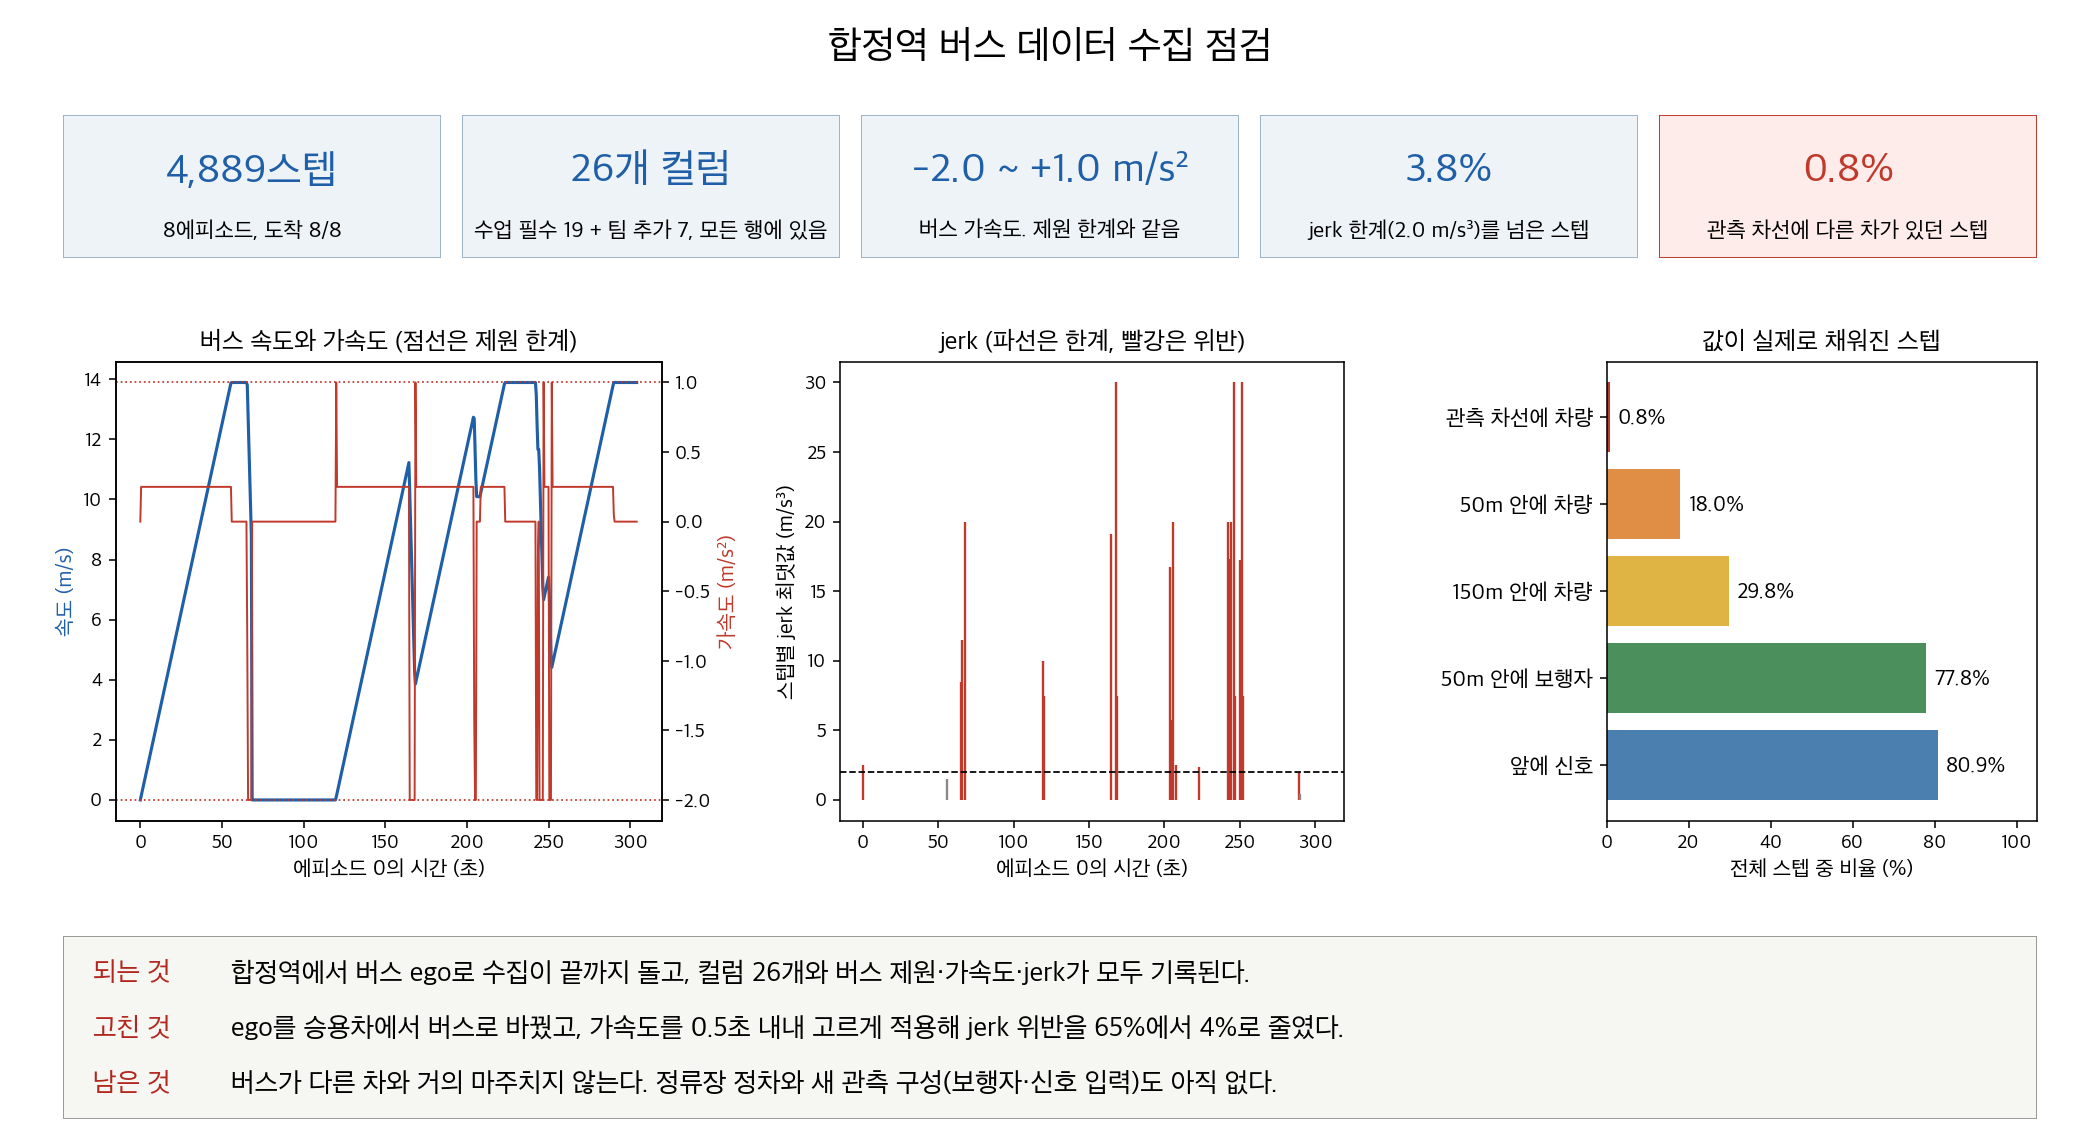
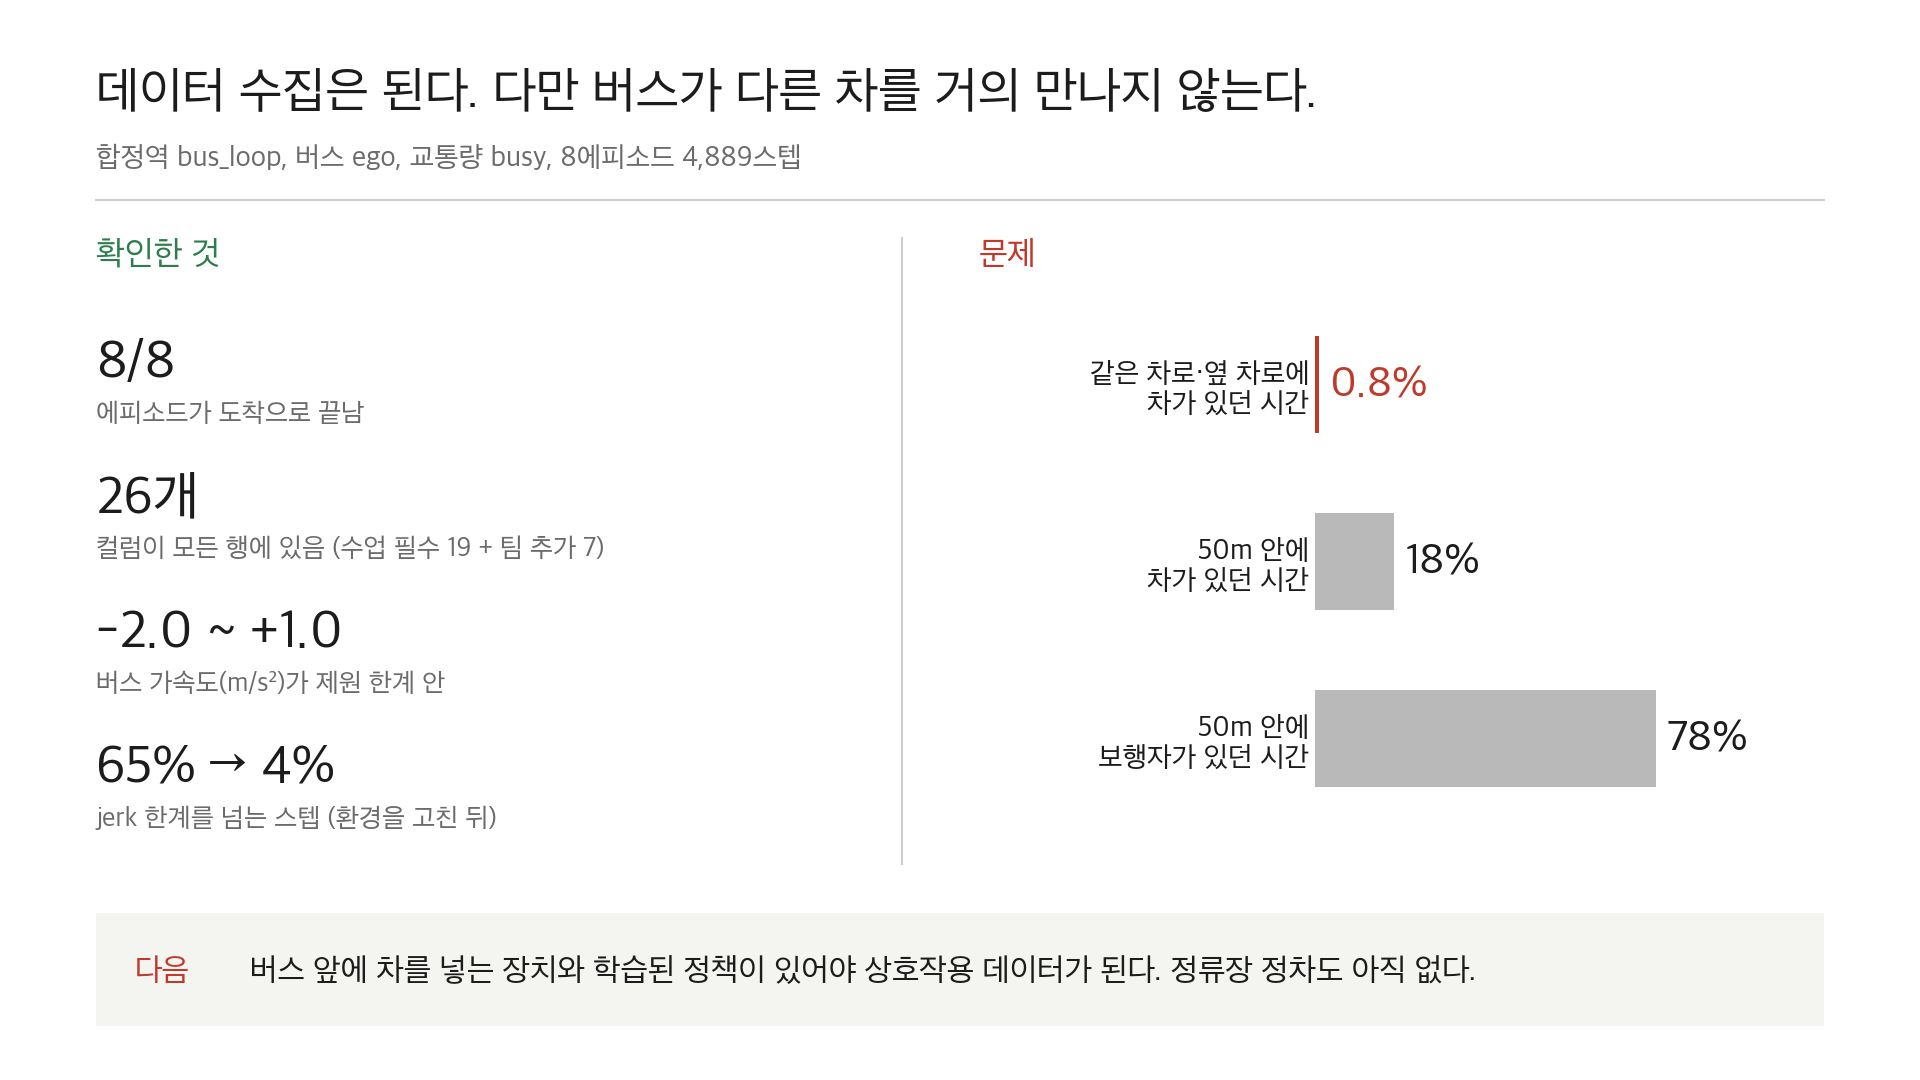
docs(data): 수집 점검 이미지를 슬라이드 한 장 구성으로 다시 그리기

diff --git a/docs/data_summary/summary_image.py b/docs/data_summary/summary_image.py
@@ -1,4 +1,4 @@
-"""데이터 수집 점검을 이미지 한 장으로 만든다. 수집한 JSONL에서 바로 그린다.
+"""데이터 수집 점검을 슬라이드 한 장으로 만든다. 숫자는 수집한 JSONL에서 센다.
 
     python3 docs/data_summary/summary_image.py data/hapjeong/bus_loop_rule_busy.jsonl.gz
 """
@@ -16,70 +16,52 @@ FONT = "/System/Library/Fonts/AppleSDGothicNeo.ttc"
 font_manager.fontManager.addfont(FONT)
 plt.rcParams["font.family"] = font_manager.FontProperties(fname=FONT).get_name()
 plt.rcParams["axes.unicode_minus"] = False
-RED, BLUE = "#c0392b", "#1f5fa8"
+INK, GRAY, GREEN, RED = "#1c1c1c", "#6b6b6b", "#2e7d4f", "#c0392b"
+# 가속도를 고르게 적용하기 전에 잰 jerk 위반 비율(1,210스텝 중 786스텝). 그 데이터는 남기지 않았다.
+JERK_BEFORE = 100 * 786 / 1210
 
 rows = [json.loads(line) for line in gzip.open(sys.argv[1], "rt", encoding="utf-8")]
 total, episodes = len(rows), len({row["episode"] for row in rows})
 arrived = sum(row["event"]["termination_reason"] == "arrived" for row in rows)
 accel = [row["state"]["ego"]["acceleration"] for row in rows]
-violations = sum(bool(row["comfort"]["jerk_violation"]) for row in rows)
-in_lane = sum(any(d["lane_relation"] != "other" for d in row["detected_vehicles"]) for row in rows)
-share = [("관측 차선에 차량", in_lane), ("50m 안에 차량", sum(bool(r["detected_vehicles"]) for r in rows)),
-         ("150m 안에 차량", sum(bool(r["state"]["vehicles"]) for r in rows)),
-         ("50m 안에 보행자", sum(bool(r["detected_pedestrians"]) for r in rows)),
-         ("앞에 신호", sum(r["state"]["traffic_light"] is not None for r in rows))]
+jerk = 100 * sum(bool(row["comfort"]["jerk_violation"]) for row in rows) / total
+met = [("같은 차로·옆 차로에\n차가 있던 시간", sum(any(d["lane_relation"] != "other" for d in r["detected_vehicles"]) for r in rows)),
+       ("50m 안에\n차가 있던 시간", sum(bool(r["detected_vehicles"]) for r in rows)),
+       ("50m 안에\n보행자가 있던 시간", sum(bool(r["detected_pedestrians"]) for r in rows))]
 
-fig = plt.figure(figsize=(15, 8.2), dpi=140)
-fig.suptitle("합정역 버스 데이터 수집 점검", fontsize=20, fontweight="bold", y=0.975)
-tiles = [(f"{total:,}스텝", f"{episodes}에피소드, 도착 {arrived}/{episodes}"), ("26개 컬럼", "수업 필수 19 + 팀 추가 7, 모든 행에 있음"),
-         (f"{min(accel):.1f} ~ +{max(accel):.1f} m/s²", "버스 가속도. 제원 한계와 같음"),
-         (f"{100 * violations / total:.1f}%", "jerk 한계(2.0 m/s³)를 넘은 스텝"),
-         (f"{100 * in_lane / total:.1f}%", "관측 차선에 다른 차가 있던 스텝")]
-for index, (value, label) in enumerate(tiles):
-    ax = fig.add_axes([0.03 + index * 0.19, 0.775, 0.18, 0.125])
-    ax.axis("off")
-    bad = index == len(tiles) - 1
-    ax.add_patch(plt.Rectangle((0, 0), 1, 1, fc="#fdecea" if bad else "#eef3f8", ec=RED if bad else "#9db3c8", transform=ax.transAxes))
-    ax.text(0.5, 0.62, value, fontsize=21, fontweight="bold", color=RED if bad else BLUE, ha="center", va="center", transform=ax.transAxes)
-    ax.text(0.5, 0.2, label, fontsize=11.5, ha="center", va="center", transform=ax.transAxes)
+fig = plt.figure(figsize=(16, 9), dpi=120)
+fig.text(0.05, 0.90, "데이터 수집은 된다. 다만 버스가 다른 차를 거의 만나지 않는다.", fontsize=30, fontweight="bold", color=INK)
+fig.text(0.05, 0.845, f"합정역 bus_loop, 버스 ego, 교통량 busy, {episodes}에피소드 {total:,}스텝", fontsize=17, color=GRAY)
+fig.add_artist(plt.Line2D([0.05, 0.95], [0.815, 0.815], color="#cccccc", lw=1.2))
 
-episode = [row for row in rows if row["episode"] == 0]
-time = [row["t"] * 0.5 for row in episode]
-ax = fig.add_axes([0.055, 0.285, 0.26, 0.40])
-ax.plot(time, [row["state"]["ego"]["speed"] for row in episode], color=BLUE, lw=1.6)
-ax.set_ylabel("속도 (m/s)", color=BLUE, fontsize=11), ax.set_xlabel("에피소드 0의 시간 (초)", fontsize=11)
-twin = ax.twinx()
-twin.plot(time, [row["state"]["ego"]["acceleration"] for row in episode], color=RED, lw=1.0)
-twin.axhline(1.0, color=RED, ls=":", lw=0.9), twin.axhline(-2.0, color=RED, ls=":", lw=0.9)
-twin.set_ylabel("가속도 (m/s²)", color=RED, fontsize=11)
-ax.set_title("버스 속도와 가속도 (점선은 제원 한계)", fontsize=13, fontweight="bold")
+fig.text(0.05, 0.755, "확인한 것", fontsize=20, fontweight="bold", color=GREEN)
+checks = [(f"{arrived}/{episodes}", "에피소드가 도착으로 끝남"),
+          ("26개", "컬럼이 모든 행에 있음 (수업 필수 19 + 팀 추가 7)"),
+          (f"{min(accel):.1f} ~ +{max(accel):.1f}", "버스 가속도(m/s²)가 제원 한계 안"),
+          (f"{JERK_BEFORE:.0f}% → {jerk:.0f}%", "jerk 한계를 넘는 스텝 (환경을 고친 뒤)")]
+for index, (value, label) in enumerate(checks):
+    y = 0.665 - index * 0.125
+    fig.text(0.05, y, value, fontsize=32, fontweight="bold", color=INK, va="center")
+    fig.text(0.05, y - 0.047, label, fontsize=16, color=GRAY, va="center")
 
-ax = fig.add_axes([0.40, 0.285, 0.24, 0.40])
-jerk = [row["comfort"]["peak_jerk"] for row in episode]
-ax.vlines(time, 0, jerk, color=[RED if value > 2.0 else "#888888" for value in jerk], lw=1.2)
-ax.axhline(2.0, color="black", ls="--", lw=0.9)
-ax.set_xlabel("에피소드 0의 시간 (초)", fontsize=11), ax.set_ylabel("스텝별 jerk 최댓값 (m/s³)", fontsize=11)
-ax.set_title("jerk (파선은 한계, 빨강은 위반)", fontsize=13, fontweight="bold")
+fig.add_artist(plt.Line2D([0.47, 0.47], [0.20, 0.78], color="#cccccc", lw=1.2))
+fig.text(0.51, 0.755, "문제", fontsize=20, fontweight="bold", color=RED)
+ax = fig.add_axes([0.685, 0.25, 0.255, 0.46])
+values = [100 * count / total for _, count in met]
+bars = ax.barh(range(len(met)), values, color=[RED, "#b9b9b9", "#b9b9b9"], height=0.55)
+for bar, value, color in zip(bars, values, (RED, INK, INK)):
+    ax.text(value + 2.5, bar.get_y() + bar.get_height() / 2, f"{value:.1f}%" if value < 10 else f"{value:.0f}%",
+            va="center", fontsize=26, fontweight="bold", color=color)
+ax.set_yticks(range(len(met)), [name for name, _ in met], fontsize=17, color=INK)
+ax.set_xlim(0, 112), ax.invert_yaxis(), ax.set_xticks([])
+ax.tick_params(length=0)
+for side in ("top", "right", "bottom", "left"):
+    ax.spines[side].set_visible(False)
 
-ax = fig.add_axes([0.765, 0.285, 0.205, 0.40])
-values = [100 * count / total for _, count in share]
-bars = ax.barh([name for name, _ in share], values, color=[RED, "#e08e45", "#e0b345", "#4a8f5c", "#4a7fb0"])
-for bar, value in zip(bars, values):
-    ax.text(value + 2, bar.get_y() + bar.get_height() / 2, f"{value:.1f}%", va="center", fontsize=11)
-ax.set_xlim(0, 105), ax.invert_yaxis(), ax.tick_params(axis="y", labelsize=11.5)
-ax.set_xlabel("전체 스텝 중 비율 (%)", fontsize=11)
-ax.set_title("값이 실제로 채워진 스텝", fontsize=13, fontweight="bold")
-
-box = fig.add_axes([0.03, 0.025, 0.94, 0.16])
-box.axis("off")
-box.add_patch(plt.Rectangle((0, 0), 1, 1, fc="#f6f6f2", ec="#999999", transform=box.transAxes))
-notes = [("되는 것", "합정역에서 버스 ego로 수집이 끝까지 돌고, 컬럼 26개와 버스 제원·가속도·jerk가 모두 기록된다."),
-         ("고친 것", "ego를 승용차에서 버스로 바꿨고, 가속도를 0.5초 내내 고르게 적용해 jerk 위반을 65%에서 4%로 줄였다."),
-         ("남은 것", "버스가 다른 차와 거의 마주치지 않는다. 정류장 정차와 새 관측 구성(보행자·신호 입력)도 아직 없다.")]
-for row, (label, text) in enumerate(notes):
-    y = 0.80 - 0.30 * row
-    box.text(0.015, y, label, fontsize=14, fontweight="bold", color="#b3261e", va="center", transform=box.transAxes)
-    box.text(0.085, y, text, fontsize=14, va="center", transform=box.transAxes)
+fig.add_artist(plt.Rectangle((0.05, 0.05), 0.90, 0.105, fc="#f4f4f0", ec="none"))
+fig.text(0.07, 0.102, "다음", fontsize=19, fontweight="bold", color=RED, va="center")
+fig.text(0.13, 0.102, "버스 앞에 차를 넣는 장치와 학습된 정책이 있어야 상호작용 데이터가 된다. 정류장 정차도 아직 없다.",
+         fontsize=19, color=INK, va="center")
 out = Path(__file__).with_name("data_collection.png")
 fig.savefig(out)
 print(out)
